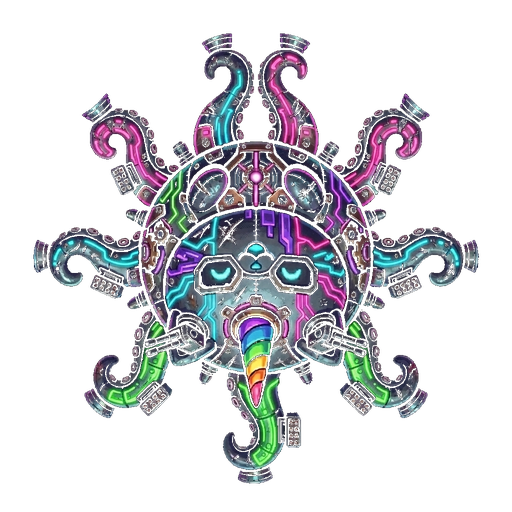
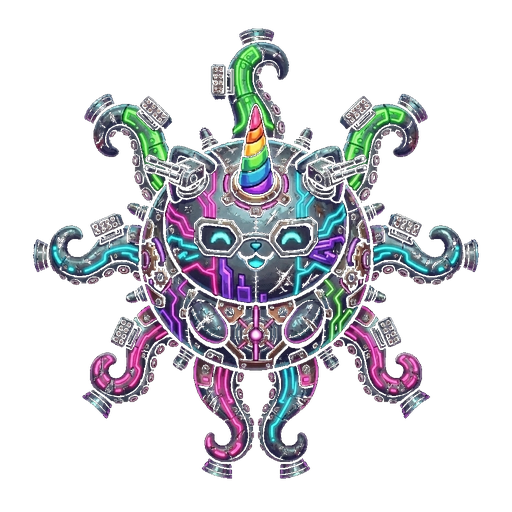
fix: Restore original Oktohorncat sprite orientation and add dynamic dynamic RGB thrusters and flowing horn effect

diff --git a/src/scenes/GameScene.js b/src/scenes/GameScene.js
@@ -518,36 +518,39 @@ export default class GameScene extends Phaser.Scene {
             this.phantomEngines.ir = this.add.particles(0, 0, 'p_glow', { follow: this.player, followOffset: { x: 25, y: 45 }, ...ec }).setDepth(9);
             this.phantomEngines.or = this.add.particles(0, 0, 'p_glow', { follow: this.player, followOffset: { x: 65, y: 35 }, ...ec }).setDepth(9);
         } else if (this.shipClass === 'paladin') {
-            // ── OKTOHORNCAT: 8 Tentacle Glow Emitters (star pattern) ──
-            this.paladinTentacles = [];
+            // ── OKTOHORNCAT: Tentacle Flames & Sparkles ──
+            this.paladinFlames = [];
+            this.paladinSparks = [];
+            // tentacle index: 0=top, 1=TR, 2=R, 3=BR, 4=B, 5=BL, 6=L, 7=TL
             const tentacleOffsets = [
-                { x: 0, y: -90 },   // top (horn direction)
-                { x: 65, y: -65 },  // top-right
-                { x: 90, y: 0 },    // right
-                { x: 65, y: 65 },   // bottom-right
-                { x: 0, y: 90 },    // bottom
-                { x: -65, y: 65 },  // bottom-left
-                { x: -90, y: 0 },   // left
-                { x: -65, y: -65 }, // top-left
+                { x: 0, y: -90 },   { x: 65, y: -65 },  { x: 90, y: 0 },    { x: 65, y: 65 },
+                { x: 0, y: 90 },    { x: -65, y: 65 },  { x: -90, y: 0 },   { x: -65, y: -65 }
             ];
-            const tentColors = [0xff0055, 0xff8800, 0xffff00, 0x00ff66, 0x00ccff, 0x8800ff, 0xff00cc, 0x00ffaa];
             tentacleOffsets.forEach((off, i) => {
-                const tc = {
-                    speedX: { min: off.x * 2, max: off.x * 4 },
-                    speedY: { min: off.y * 2, max: off.y * 4 },
-                    scale: { start: 0.4, end: 0.05 },
-                    alpha: { start: 0.8, end: 0 },
-                    tint: tentColors[i],
-                    blendMode: 'ADD',
-                    lifespan: { min: 200, max: 400 },
-                    frequency: 60,
-                };
-                const p = this.add.particles(0, 0, 'p_glow', { follow: this.player, followOffset: off, ...tc }).setDepth(9);
-                this.paladinTentacles.push(p);
+                const f = this.add.particles(0, 0, 'p_glow', {
+                    follow: this.player, followOffset: off,
+                    speedX: { min: off.x * 2, max: off.x * 3.5 }, speedY: { min: off.y * 2, max: off.y * 3.5 },
+                    scale: { start: 0.5, end: 0 }, alpha: { start: 1, end: 0 },
+                    blendMode: 'ADD', lifespan: 300, frequency: -1
+                }).setDepth(9);
+                this.paladinFlames.push(f);
+                
+                const s = this.add.particles(0, 0, 'p_glow', {
+                    follow: this.player, followOffset: off,
+                    speedX: { min: off.x * 3, max: off.x * 5 }, speedY: { min: off.y * 3, max: off.y * 5 },
+                    scale: { start: 0.15, end: 0 }, alpha: { start: 1, end: 0 },
+                    blendMode: 'ADD', lifespan: 400, frequency: -1
+                }).setDepth(9);
+                this.paladinSparks.push(s);
             });
 
-            // ── OKTOHORNCAT: Rainbow Horn Glow (overlay circle at horn position) ──
-            this.paladinHornGlow = this.add.circle(0, 0, 8, 0xff0000, 0.6).setDepth(11).setBlendMode('ADD');
+            // ── OKTOHORNCAT: Rainbow Horn Flow (upward flowing rgb particles) ──
+            this.paladinHornEmitter = this.add.particles(0, 0, 'p_glow', {
+                follow: this.player, followOffset: { x: 0, y: -90 },
+                speedY: { min: -40, max: -90 }, speedX: { min: -8, max: 8 },
+                scale: { start: 0.25, end: 0 }, alpha: { start: 1, end: 0 },
+                blendMode: 'ADD', lifespan: 400, frequency: 15
+            }).setDepth(11);
             this.paladinHornHue = 0;
 
             // ── OKTOHORNCAT: Breathing Scale Animation ──
@@ -3553,35 +3556,50 @@ export default class GameScene extends Phaser.Scene {
         this.abilitySys.update(time, delta);
         this.hazardSys.update(time, delta);
 
-        // ── OKTOHORNCAT: Rainbow Horn Glow + Tentacle Color Cycling ──
+        // ── OKTOHORNCAT: Rainbow Effects & Dynamic Thrusters ──
         if (this.shipClass === 'paladin' && this.player && this.player.active) {
-            // Rainbow horn: smoothly cycle through HSL colors
-            if (this.paladinHornGlow) {
-                this.paladinHornHue = (this.paladinHornHue + delta * 0.2) % 360;
-                const h = this.paladinHornHue / 360;
-                // HSL to RGB conversion (s=1, l=0.5 = full saturation)
-                const hue2rgb = (p, q, t) => { if (t < 0) t += 1; if (t > 1) t -= 1; if (t < 1/6) return p + (q - p) * 6 * t; if (t < 1/2) return q; if (t < 2/3) return p + (q - p) * (2/3 - t) * 6; return p; };
-                const q = 1, p = 0;
-                const r = Math.round(hue2rgb(p, q, h + 1/3) * 255);
-                const g = Math.round(hue2rgb(p, q, h) * 255);
-                const b2 = Math.round(hue2rgb(p, q, h - 1/3) * 255);
-                const color = (r << 16) | (g << 8) | b2;
-                this.paladinHornGlow.setFillStyle(color, 0.7);
-                this.paladinHornGlow.setPosition(this.player.x, this.player.y - 95);
+            
+            // Smoothly cycle through HSL colors
+            this.paladinHornHue = (this.paladinHornHue + delta * 0.2) % 360;
+            const h = this.paladinHornHue / 360;
+            const hue2rgb = (p, q, t) => { if (t < 0) t += 1; if (t > 1) t -= 1; if (t < 1/6) return p + (q - p) * 6 * t; if (t < 1/2) return q; if (t < 2/3) return p + (q - p) * (2/3 - t) * 6; return p; };
+            const q = 1, p = 0;
+            const r = Math.round(hue2rgb(p, q, h + 1/3) * 255);
+            const g = Math.round(hue2rgb(p, q, h) * 255);
+            const b2 = Math.round(hue2rgb(p, q, h - 1/3) * 255);
+            const color = (r << 16) | (g << 8) | b2;
+
+            // 1. Color the entire ship hull (neon elements will pop)
+            this.player.setTint(color);
+
+            // 2. Color the horn flowing particles
+            if (this.paladinHornEmitter) {
+                this.paladinHornEmitter.setParticleTint(color);
             }
-            // Tentacle color cycling: shift each tentacle's tint over time
-            if (this.paladinTentacles) {
-                const baseHue = (time * 0.1) % 360;
-                this.paladinTentacles.forEach((p, i) => {
-                    const tentHue = (baseHue + i * 45) % 360;
-                    const th = tentHue / 360;
-                    const hue2rgb = (pp, qq, t) => { if (t < 0) t += 1; if (t > 1) t -= 1; if (t < 1/6) return pp + (qq - pp) * 6 * t; if (t < 1/2) return qq; if (t < 2/3) return pp + (qq - pp) * (2/3 - t) * 6; return pp; };
-                    const qq = 1, pp = 0;
-                    const rr = Math.round(hue2rgb(pp, qq, th + 1/3) * 255);
-                    const gg = Math.round(hue2rgb(pp, qq, th) * 255);
-                    const bb = Math.round(hue2rgb(pp, qq, th - 1/3) * 255);
-                    const tc = (rr << 16) | (gg << 8) | bb;
-                    p.setParticleTint(tc);
+
+            // 3. Dynamic Thrusters (Flames & Sparks)
+            if (this.paladinFlames && this.paladinSparks) {
+                // Determine movement direction
+                const isW = this.controls.W.isDown || this.controls.UP.isDown;
+                const isS = this.controls.S.isDown || this.controls.DOWN.isDown;
+                const isA = this.controls.A.isDown || this.controls.LEFT.isDown;
+                const isD = this.controls.D.isDown || this.controls.RIGHT.isDown;
+                
+                // Indexes: 0=top, 1=TR, 2=R, 3=BR, 4=B, 5=BL, 6=L, 7=TL
+                const activeThrusters = new Set([3, 4, 5]); // Bottom thrusters always on (forward movement)
+                
+                if (isA) { activeThrusters.add(1); activeThrusters.add(2); } // Moving left -> Right thrusters
+                if (isD) { activeThrusters.add(6); activeThrusters.add(7); } // Moving right -> Left thrusters
+                if (isS) { activeThrusters.add(0); activeThrusters.add(1); activeThrusters.add(7); } // Braking/Moving down -> Top thrusters
+                
+                // Update frequencies and tints
+                this.paladinFlames.forEach((f, i) => {
+                    f.frequency = activeThrusters.has(i) ? (isW && [3,4,5].includes(i) ? 30 : 60) : -1;
+                    f.setParticleTint(color);
+                });
+                this.paladinSparks.forEach((s, i) => {
+                    s.frequency = activeThrusters.has(i) ? (isW && [3,4,5].includes(i) ? 50 : 100) : -1;
+                    s.setParticleTint(color);
                 });
             }
         }
